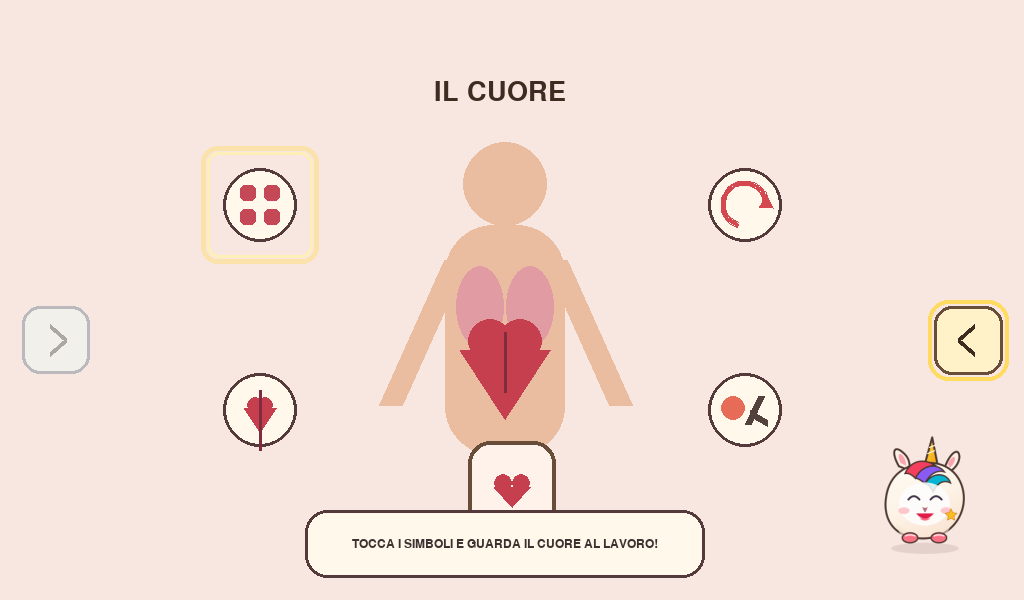
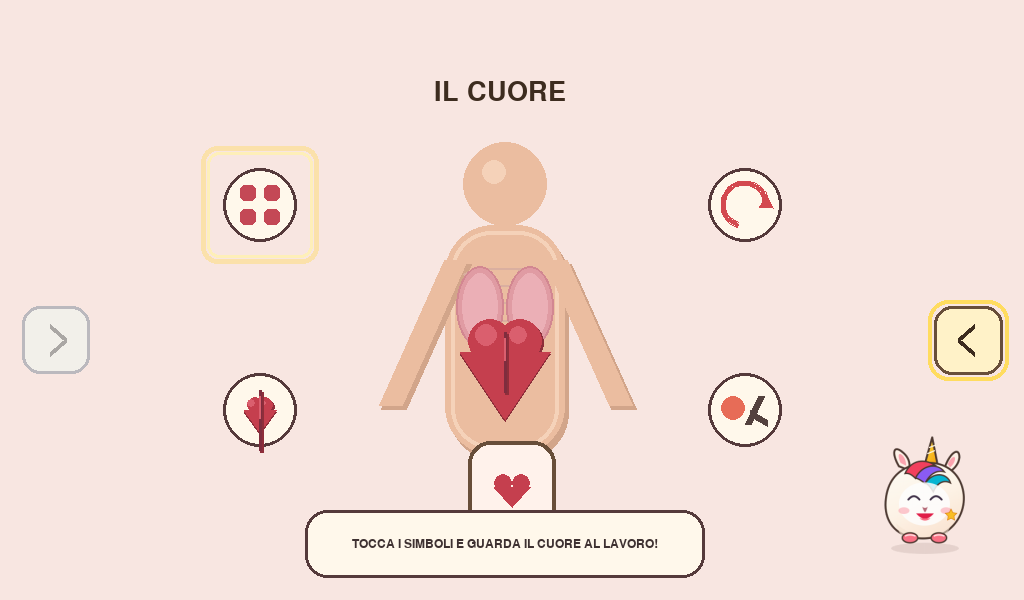
Encyclopedia: iterate body.heart - torso depth, rib hint, heart highlight/shadow
First iteration per entry graphics triage. Torso now has shadow/highlight + rib arcs, lungs with depth, heart with highlight/shadow/bevel. Still iterative, next will add chamber detail and circulation glow.

diff --git a/activities/enciclopedia_greia/pages/heart.py b/activities/enciclopedia_greia/pages/heart.py
@@ -236,13 +236,34 @@ class HeartPage(EncyclopediaPage):
         )
 
     def _draw_body_and_heart(self, surface: pygame.Surface) -> None:
+        # More child-friendly torso with subtle shading and rib hint
         skin = (235, 189, 160)
+        skin_light = (245, 210, 185)
+        skin_shadow = (210, 165, 138)
+        # Head with highlight
         pygame.draw.circle(surface, skin, (505, 184), 42)
-        pygame.draw.rect(surface, skin, (445, 225, 120, 230), border_radius=48)
+        pygame.draw.circle(surface, skin_light, (494, 172), 12)
+        pygame.draw.circle(surface, skin, (505, 184), 42, 2)
+        # Torso with rounded top and soft shadow
+        torso = pygame.Rect(445, 225, 120, 230)
+        pygame.draw.rect(surface, skin_shadow, torso.move(4, 6), border_radius=48)
+        pygame.draw.rect(surface, skin, torso, border_radius=48)
+        pygame.draw.rect(surface, skin_light, torso.inflate(-12, -12), border_radius=40, width=4)
+        # Arms
+        pygame.draw.line(surface, skin_shadow, (458, 264), (393, 409), 26)
         pygame.draw.line(surface, skin, (455, 260), (390, 405), 24)
+        pygame.draw.line(surface, skin_shadow, (558, 264), (623, 409), 26)
         pygame.draw.line(surface, skin, (555, 260), (620, 405), 24)
+        # Ribs hint
+        for ry in (268, 285, 302, 320):
+            pygame.draw.arc(surface, (218, 175, 160), (462, ry, 80, 18), 0.25, 2.9, 2)
+        # Lungs
         pygame.draw.ellipse(surface, (224, 155, 163), (456, 266, 48, 82))
+        pygame.draw.ellipse(surface, (235, 175, 182), (462, 273, 36, 68))
         pygame.draw.ellipse(surface, (224, 155, 163), (506, 266, 48, 82))
+        pygame.draw.ellipse(surface, (235, 175, 182), (512, 273, 36, 68))
+        pygame.draw.ellipse(surface, (210, 135, 145), (456, 266, 48, 82), 2)
+        pygame.draw.ellipse(surface, (210, 135, 145), (506, 266, 48, 82), 2)
 
         beat = self._model.beat_phase
         double_pulse = max(0.0, math.sin(beat * math.pi * 2.0)) + 0.45 * max(
@@ -264,15 +285,25 @@ class HeartPage(EncyclopediaPage):
     @staticmethod
     def _draw_heart(surface: pygame.Surface, center: tuple[int, int], size: int) -> None:
         cx, cy = center
-        color = (197, 63, 78)
-        pygame.draw.circle(surface, color, (cx - size // 3, cy - size // 5), size // 2)
-        pygame.draw.circle(surface, color, (cx + size // 3, cy - size // 5), size // 2)
-        pygame.draw.polygon(
-            surface,
-            color,
-            [(cx - size, cy), (cx + size, cy), (cx, cy + int(size * 1.55))],
-        )
+        # Base heart with gradient and highlight
+        base = (197, 63, 78)
+        highlight = (218, 95, 110)
+        shadow = (142, 46, 58)
+        # Two lobes
+        pygame.draw.circle(surface, shadow, (cx - size // 3 + 2, cy - size // 5 + 2), size // 2)
+        pygame.draw.circle(surface, shadow, (cx + size // 3 + 2, cy - size // 5 + 2), size // 2)
+        pygame.draw.circle(surface, base, (cx - size // 3, cy - size // 5), size // 2)
+        pygame.draw.circle(surface, base, (cx + size // 3, cy - size // 5), size // 2)
+        pygame.draw.circle(surface, highlight, (cx - size // 3 - 4, cy - size // 3), size // 4)
+        pygame.draw.circle(surface, highlight, (cx + size // 3 - 2, cy - size // 3), size // 5)
+        # Pointed bottom with subtle bevel
+        pts = [(cx - size, cy + 2), (cx + size, cy + 2), (cx, cy + int(size * 1.55))]
+        pygame.draw.polygon(surface, shadow, [(x, y + 2) for x, y in pts])
+        pygame.draw.polygon(surface, base, pts)
+        # Septum line with highlight
+        pygame.draw.line(surface, shadow, (cx + 1, cy - 16), (cx + 1, cy + 44), 4)
         pygame.draw.line(surface, (127, 45, 62), (cx, cy - 18), (cx, cy + 42), 3)
+        pygame.draw.line(surface, highlight, (cx - 1, cy - 12), (cx - 1, cy + 10), 2)
 
     @staticmethod
     def _draw_chambers(surface: pygame.Surface, center: tuple[int, int]) -> None:
